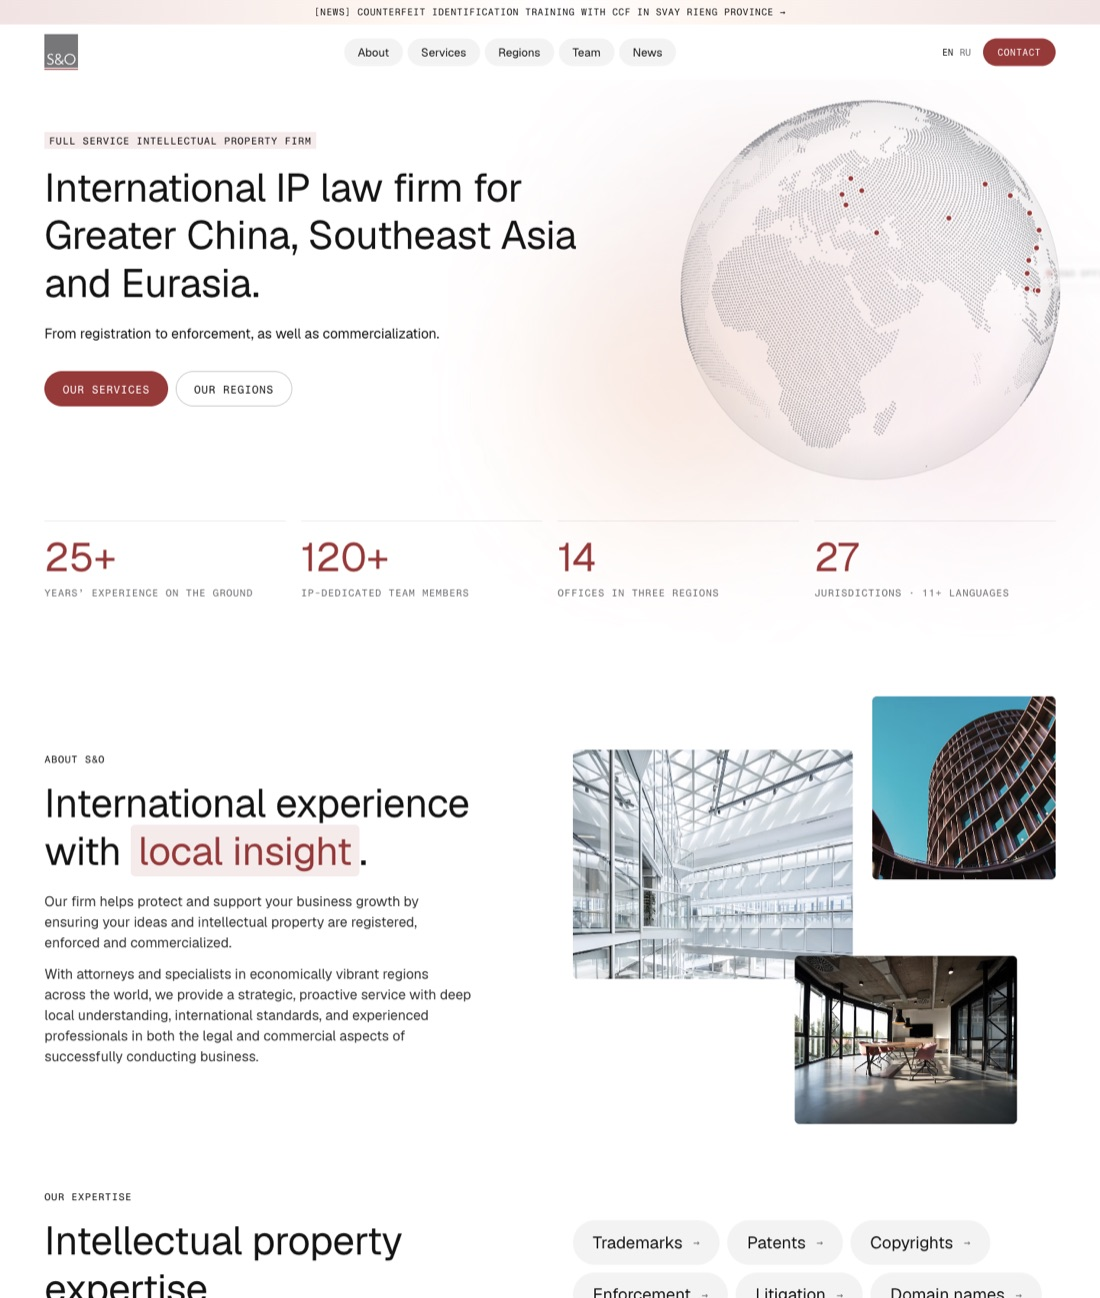
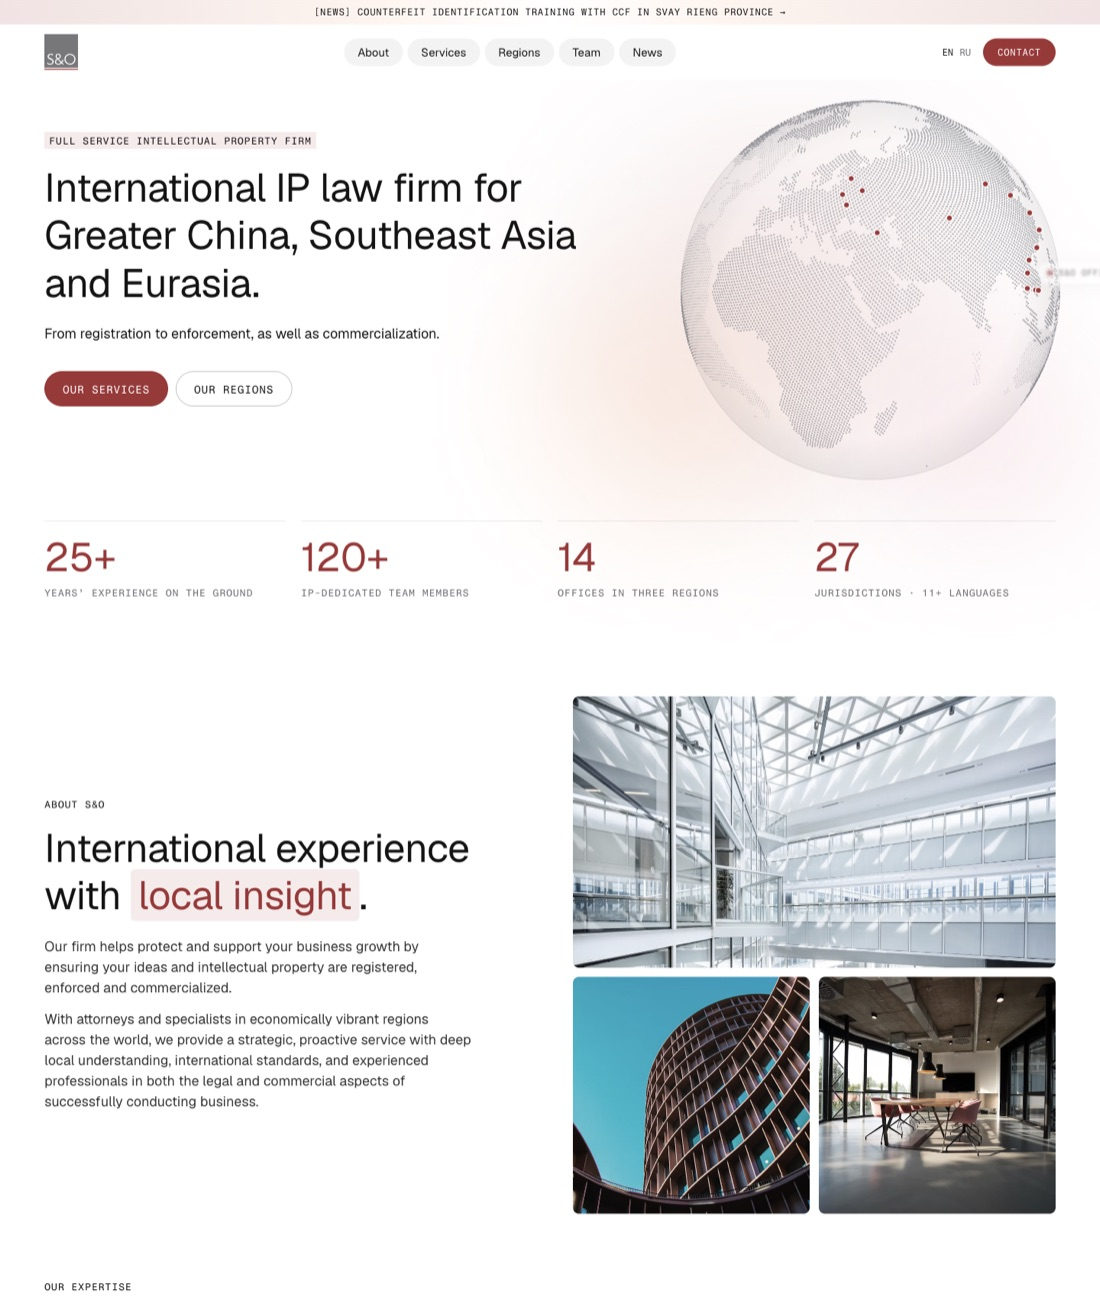
S&O IP demo: fresh previews on the options page

diff --git a/so-ip/index.html b/so-ip/index.html
@@ -98,8 +98,8 @@
     <div class="cards">
       <a class="card" href="v1/">
         <div class="top"><span class="tag" data-en="Option 01" data-ru="Вариант 01"></span><span class="arrow" aria-hidden="true">→</span></div>
-        <img class="shot" src="assets/previews/v1.jpg" alt="">
-        <span class="blur-ff" aria-hidden="true"><img class="shot" src="assets/previews/v1.jpg" alt=""></span>
+        <img class="shot" src="assets/previews/v1.jpg?v=20261022" alt="">
+        <span class="blur-ff" aria-hidden="true"><img class="shot" src="assets/previews/v1.jpg?v=20261022" alt=""></span>
         <span class="blur" aria-hidden="true"><i></i><i></i><i></i><i></i><i></i></span>
         <div class="text">
           <h2 data-en="Strict and graphic" data-ru="Строгий и графичный"></h2>
@@ -108,8 +108,8 @@
       </a>
       <a class="card" href="v2/">
         <div class="top"><span class="tag" data-en="Option 02" data-ru="Вариант 02"></span><span class="arrow" aria-hidden="true">→</span></div>
-        <img class="shot" src="assets/previews/v2.jpg" alt="">
-        <span class="blur-ff" aria-hidden="true"><img class="shot" src="assets/previews/v2.jpg" alt=""></span>
+        <img class="shot" src="assets/previews/v2.jpg?v=20261022" alt="">
+        <span class="blur-ff" aria-hidden="true"><img class="shot" src="assets/previews/v2.jpg?v=20261022" alt=""></span>
         <span class="blur" aria-hidden="true"><i></i><i></i><i></i><i></i><i></i></span>
         <div class="text">
           <h2 data-en="Bold typography" data-ru="Крупная типографика"></h2>
@@ -118,8 +118,8 @@
       </a>
       <a class="card" href="v3/">
         <div class="top"><span class="tag" data-en="Option 03" data-ru="Вариант 03"></span><span class="arrow" aria-hidden="true">→</span></div>
-        <img class="shot" src="assets/previews/v3.jpg" alt="">
-        <span class="blur-ff" aria-hidden="true"><img class="shot" src="assets/previews/v3.jpg" alt=""></span>
+        <img class="shot" src="assets/previews/v3.jpg?v=20261022" alt="">
+        <span class="blur-ff" aria-hidden="true"><img class="shot" src="assets/previews/v3.jpg?v=20261022" alt=""></span>
         <span class="blur" aria-hidden="true"><i></i><i></i><i></i><i></i><i></i></span>
         <div class="text">
           <h2 data-en="Light and modern" data-ru="Светлый и современный"></h2>
